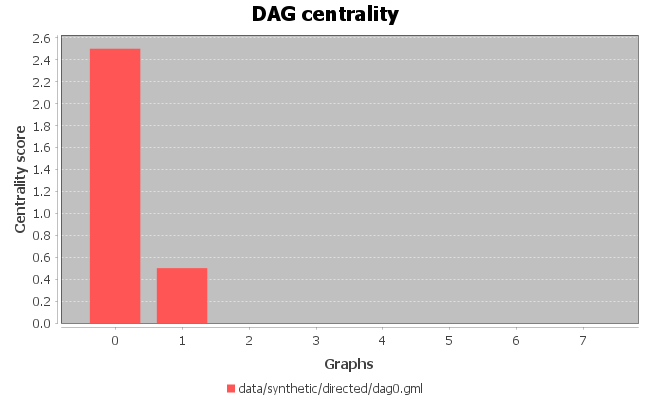
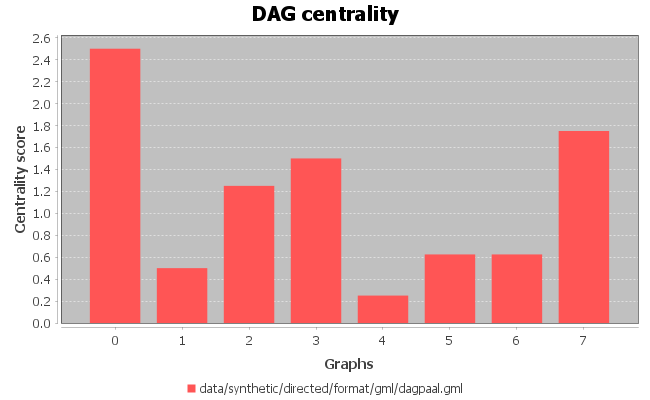
Implement DAG PageRank centrality

Changed region(s): [[0.3385, 0.33, 0.9538, 0.81], [0.2769, 0.96, 0.7077, 0.99]]

diff --git a/src/main/java/no/uib/mayarobbestad/dagcentrality/Main.java b/src/main/java/no/uib/mayarobbestad/dagcentrality/Main.java
@@ -50,8 +50,8 @@ public class Main {
     static final boolean EIGENVECTOR = false;
     static final boolean KATZ = false;
     static final boolean PAGERANK = false;
-    static final boolean DAGPAGERANK = false;
-    static final boolean DAGBETWEENNESS = true;
+    static final boolean DAGPAGERANK = true;
+    static final boolean DAGBETWEENNESS = false;
 
     public static void main(String[] args) throws IOException {
         // readAndStoreInputGraphs("data/dataFiles.txt", graphs, graphDirectory, true);
@@ -231,7 +231,7 @@ public class Main {
             throws IOException {
         FileWriter writer = new FileWriter(file);
         int numGraphs = graphs.size();
-        VertexScoringAlgorithm<Integer, Double> centralityAlgorithm;
+
         if (DEGREE) {
             /*
              * Also possible, instead of writing the name directly
@@ -243,7 +243,8 @@ public class Main {
                 writer.write(graphDirectory.get(i) + " = [");
                 // makes sure that all vertices are written in the file, eventhopugh we might
                 // have deleted some vertieces previously
-                centralityAlgorithm = new DegreeCentrality<>(graphs.get(i), false, true);
+                VertexScoringAlgorithm<Integer, Double> centralityAlgorithm = new DegreeCentrality<>(graphs.get(i),
+                        false, true);
 
                 StringBuilder builder = new StringBuilder();
                 for (Integer v : graphs.get(i).vertexSet()) {
@@ -260,7 +261,8 @@ public class Main {
             writer.write("Indegree centrality\n");
             for (int i = 0; i < numGraphs; i++) {
                 writer.write(graphDirectory.get(i) + " = [");
-                centralityAlgorithm = new DegreeCentrality<>(graphs.get(i), true, true);
+                VertexScoringAlgorithm<Integer, Double> centralityAlgorithm = new DegreeCentrality<>(graphs.get(i),
+                        true, true);
                 StringBuilder builder = new StringBuilder();
                 for (Integer v : graphs.get(i).vertexSet()) {
                     builder.append(v + ":" + centralityAlgorithm.getVertexScore(v) + ",");
@@ -276,7 +278,8 @@ public class Main {
             writer.write("Outdegree centrality\n");
             for (int i = 0; i < numGraphs; i++) {
                 writer.write(graphDirectory.get(i) + " = [");
-                centralityAlgorithm = new DegreeCentrality<>(graphs.get(i), false, true);
+                VertexScoringAlgorithm<Integer, Double> centralityAlgorithm = new DegreeCentrality<>(graphs.get(i),
+                        false, true);
                 StringBuilder builder = new StringBuilder();
                 for (Integer v : graphs.get(i).vertexSet()) {
                     builder.append(v + ":" + centralityAlgorithm.getVertexScore(v) + ",");
@@ -292,7 +295,8 @@ public class Main {
             writer.write("In-Harmonic centrality\n");
             for (int i = 0; i < numGraphs; i++) {
                 writer.write(graphDirectory.get(i) + " = [");
-                centralityAlgorithm = new HarmonicCentrality<>(graphs.get(i), true, true);
+                VertexScoringAlgorithm<Integer, Double> centralityAlgorithm = new HarmonicCentrality<>(graphs.get(i),
+                        true, true);
                 StringBuilder builder = new StringBuilder();
                 for (Integer v : graphs.get(i).vertexSet()) {
                     builder.append(v + ":" + centralityAlgorithm.getVertexScore(v) + ",");
@@ -308,7 +312,8 @@ public class Main {
             writer.write("Out-Harmonic centrality\n");
             for (int i = 0; i < numGraphs; i++) {
                 writer.write(graphDirectory.get(i) + " = [");
-                centralityAlgorithm = new HarmonicCentrality<>(graphs.get(i), false, true);
+                VertexScoringAlgorithm<Integer, Double> centralityAlgorithm = new HarmonicCentrality<>(graphs.get(i),
+                        false, true);
                 StringBuilder builder = new StringBuilder();
                 for (Integer v : graphs.get(i).vertexSet()) {
                     builder.append(v + ":" + centralityAlgorithm.getVertexScore(v) + ",");
@@ -325,7 +330,8 @@ public class Main {
             writer.write("Betweenness centrality\n");
             for (int i = 0; i < numGraphs; i++) {
                 writer.write(graphDirectory.get(i) + " = [");
-                centralityAlgorithm = new BetweennessCentrality<>(graphs.get(i), true);
+                VertexScoringAlgorithm<Integer, Double> centralityAlgorithm = new BetweennessCentrality<>(graphs.get(i),
+                        true);
                 StringBuilder builder = new StringBuilder();
                 for (Integer v : graphs.get(i).vertexSet()) {
                     builder.append(v + ":" + centralityAlgorithm.getVertexScore(v) + ",");
@@ -341,7 +347,8 @@ public class Main {
             writer.write("Eigenvector centrality\n");
             for (int i = 0; i < numGraphs; i++) {
                 writer.write(graphDirectory.get(i) + " = [");
-                centralityAlgorithm = new EigenvectorCentrality<>(graphs.get(i));
+                VertexScoringAlgorithm<Integer, Double> centralityAlgorithm = new EigenvectorCentrality<>(
+                        graphs.get(i));
                 StringBuilder builder = new StringBuilder();
                 for (Integer v : graphs.get(i).vertexSet()) {
                     builder.append(v + ":" + centralityAlgorithm.getVertexScore(v) + ",");
@@ -357,7 +364,7 @@ public class Main {
             writer.write("Katz centrality\n");
             for (int i = 0; i < numGraphs; i++) {
                 writer.write(graphDirectory.get(i) + " = [");
-                centralityAlgorithm = new KatzCentrality<>(graphs.get(i));
+                VertexScoringAlgorithm<Integer, Double> centralityAlgorithm = new KatzCentrality<>(graphs.get(i));
                 StringBuilder builder = new StringBuilder();
                 for (Integer v : graphs.get(i).vertexSet()) {
                     builder.append(v + ":" + centralityAlgorithm.getVertexScore(v) + ",");
@@ -373,7 +380,7 @@ public class Main {
             writer.write("PageRank centrality\n");
             for (int i = 0; i < numGraphs; i++) {
                 writer.write(graphDirectory.get(i) + " = [");
-                centralityAlgorithm = new PageRank<>(graphs.get(i));
+                VertexScoringAlgorithm<Integer, Double> centralityAlgorithm = new PageRank<>(graphs.get(i));
                 StringBuilder builder = new StringBuilder();
                 for (Integer v : graphs.get(i).vertexSet()) {
                     builder.append(v + ":" + centralityAlgorithm.getVertexScore(v) + ",");
@@ -391,7 +398,8 @@ public class Main {
             for (int i = 0; i < numGraphs; i++) {
                 writer.write(graphDirectory.get(i) + " = [");
                 // TODO: bad practice fix this
-                centralityAlgorithm = new DAGPageRankCentrality<>(graphs.get(i));
+                VertexScoringAlgorithm<Integer, Double> centralityAlgorithm = new DAGPageRankCentrality<>(
+                        graphs.get(i));
                 StringBuilder builder = new StringBuilder();
                 for (Integer v : graphs.get(i).vertexSet()) {
                     builder.append(v + ":" + centralityAlgorithm.getVertexScore(v) + ",");
@@ -409,7 +417,8 @@ public class Main {
             for (int i = 0; i < numGraphs; i++) {
                 writer.write(graphDirectory.get(i) + " = [");
                 // TODO: bad practice fix this
-                centralityAlgorithm = new DAGBetweennessSourceSinkCentrality<>(graphs.get(i));
+                VertexScoringAlgorithm<Integer, Double> centralityAlgorithm = new DAGBetweennessSourceSinkCentrality<>(
+                        graphs.get(i));
                 StringBuilder builder = new StringBuilder();
                 for (Integer v : graphs.get(i).vertexSet()) {
                     builder.append(v + ":" + centralityAlgorithm.getVertexScore(v) + ",");

diff --git a/src/main/java/no/uib/mayarobbestad/dagcentrality/algorithms/DAGPageRankCentrality.java b/src/main/java/no/uib/mayarobbestad/dagcentrality/algorithms/DAGPageRankCentrality.java
@@ -9,12 +9,15 @@ import java.util.Queue;
 import java.util.Set;
 
 import org.jgrapht.Graph;
+import org.jgrapht.Graphs;
 import org.jgrapht.alg.interfaces.VertexScoringAlgorithm;
+import org.jgrapht.graph.SimpleDirectedGraph;
 
 public class DAGPageRankCentrality<V, E> implements VertexScoringAlgorithm<V, Double> {
 
     private Graph<V, E> graph;
     private Map<V, Double> scores;
+    int ITERATIONS = 3;
 
     public DAGPageRankCentrality(Graph<V, E> graph) {
         this.graph = graph;
@@ -43,71 +46,91 @@ public class DAGPageRankCentrality<V, E> implements VertexScoringAlgorithm<V, Do
      * The actual implementation of the centrality measure
      */
     private void run() {
+        Graph<V, E> copy = new SimpleDirectedGraph<>(graph.getVertexSupplier(), graph.getEdgeSupplier(), false);
+
+        Graphs.addGraph(copy, graph);
+
         // TODO: make field variable
-        int iterations = 1;
 
         // init
         Map<V, Double> weights = new HashMap<>();
-        Map<V, Double> copyOfWeights = new HashMap<>();
+
         Queue<V> toDistribute = new LinkedList<>();
+
         Set<V> sources = new HashSet<>();
         Set<V> sinks = new HashSet<>();
+
         Map<V, Set<V>> sourceAncestors = new HashMap<>();
 
-        for (V v : graph.vertexSet()) {
-            if (graph.inDegreeOf(v) == 0) {
+        for (V v : copy.vertexSet()) {
+            if (copy.outDegreeOf(v) == 0) {
+                sinks.add(v);
+            }
+            if (copy.inDegreeOf(v) == 0) {
                 weights.put(v, 1.0);
                 toDistribute.add(v);
                 sources.add(v);
             } else {
                 weights.put(v, 0.0);
             }
-            if (graph.outDegreeOf(v) == 0) {
-                sinks.add(v);
-            }
             sourceAncestors.put(v, new HashSet<>());
         }
 
         // number of iterations in PageRank
-        for (int i = 0; i < iterations; i++) {
+        for (int i = 0; i < ITERATIONS; i++) {
             // forward
             while (!toDistribute.isEmpty()) {
                 V v = toDistribute.poll();
-                for (E edge : graph.outgoingEdgesOf(v)) {
-                    V w = graph.getEdgeTarget(edge);
+
+                for (E edge : copy.outgoingEdgesOf(v)) {
+                    V w = Graphs.getOppositeVertex(copy, edge, v);
+                    // V w = copy.getEdgeTarget(edge);
+
                     Double currentWeight = weights.get(w);
+                    Double ancestorWeight = weights.get(v) / copy.outDegreeOf(v);
+
                     // weight(u)+=weight(v)/deg(v)
                     weights.put(w,
-                            currentWeight + weights.get(v) / graph.outDegreeOf(v));
-                    toDistribute.add(w);
+                            currentWeight + ancestorWeight);
+                    // no duplicates, but perhaps change this to visited
+                    // Since we are working with a DAG, this solution can be good enough
+                    // since there are no cycles in the graph
+                    if (!toDistribute.contains(w)) {
+                        toDistribute.add(w);
+                    }
+                    // adding root ancestors
+                    Set<V> temp = sourceAncestors.get(w);
                     if (sources.contains(v)) {
-                        Set<V> temp = sourceAncestors.get(w);
                         temp.add(v);
-                        sourceAncestors.put(w, temp);
                     } else {
-                        Set<V> ancestors = sourceAncestors.get(v); // get the sources of neighbour
-                        ancestors.addAll(sourceAncestors.get(w)); // merge
-                        sourceAncestors.put(w, ancestors);
+                        for (V a : sourceAncestors.get(v)) {
+                            temp.add(a);
+                        }
                     }
                 }
-                // weight has flowed from that vertex, the weights are reset
-                copyOfWeights.put(v, weights.get(v));
-                System.out.println(weights);
-                weights.put(v, 0.0);
+
             }
 
-            // backwards
-            for (V v : sinks) {
-                Double numSources = (double) sourceAncestors.get(v).size();
-                // Double weight = weights.get(v) ;
-                Double weight = 1.0;
-                for (V source : sourceAncestors.get(v)) {
-                    Double temp = weights.get(source);
-                    weights.put(source, temp + weight / numSources);
+            scores.putAll(weights);
+
+            // prep for the next iteration
+            if (i + 1 < ITERATIONS) {
+                // reset weights
+                for (V v : weights.keySet()) {
+                    weights.put(v, 0.0);
+                }
+                // backwards
+                for (V v : sinks) {
+                    Integer numSources = sourceAncestors.get(v).size();
+                    // Double weight = weights.get(v) ;
+                    Double weight = 1.0;
+                    for (V source : sourceAncestors.get(v)) {
+                        Double temp = weights.get(source);
+                        weights.put(source, temp + weight / numSources); // normalize
+                    }
                 }
             }
+            toDistribute.addAll(sources);
         }
-        // scores.putAll(copyOfWeights);
-        scores.putAll(weights);
     }
 }
